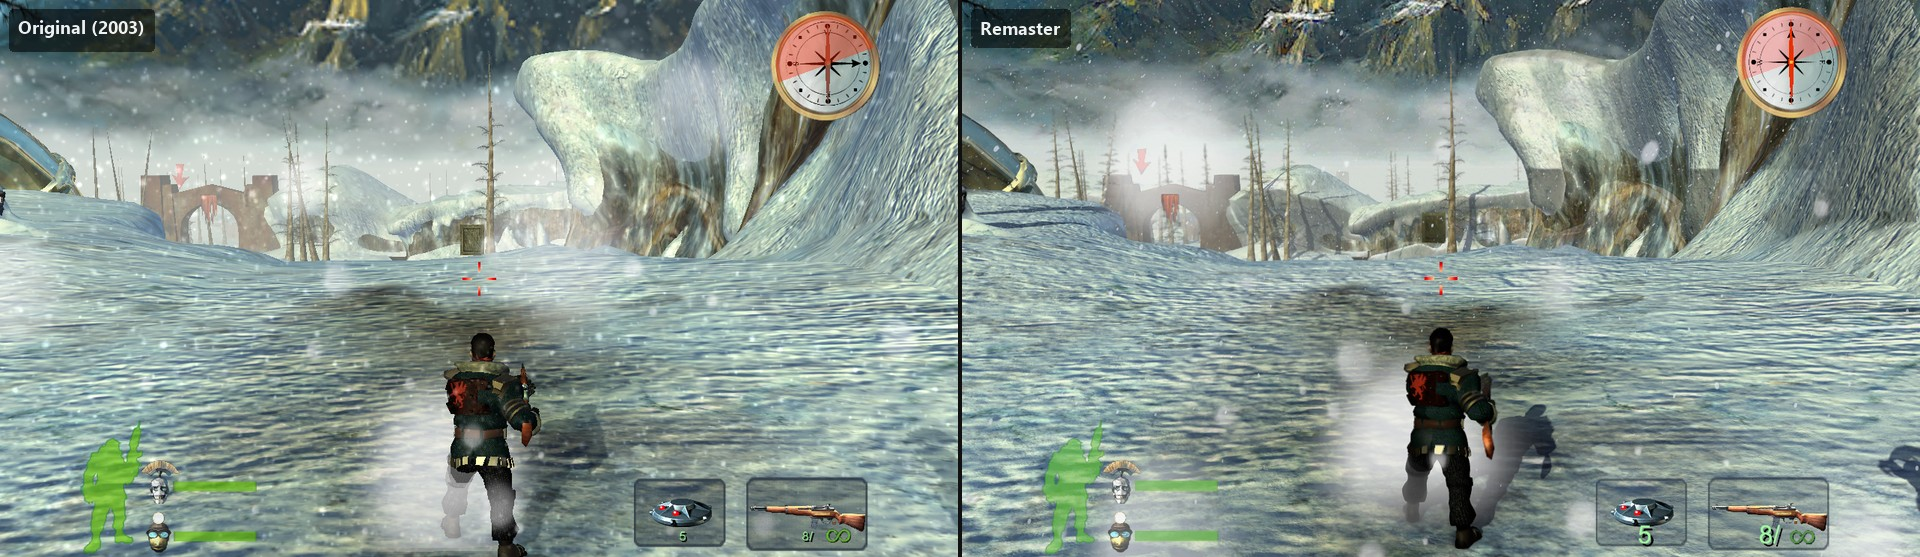
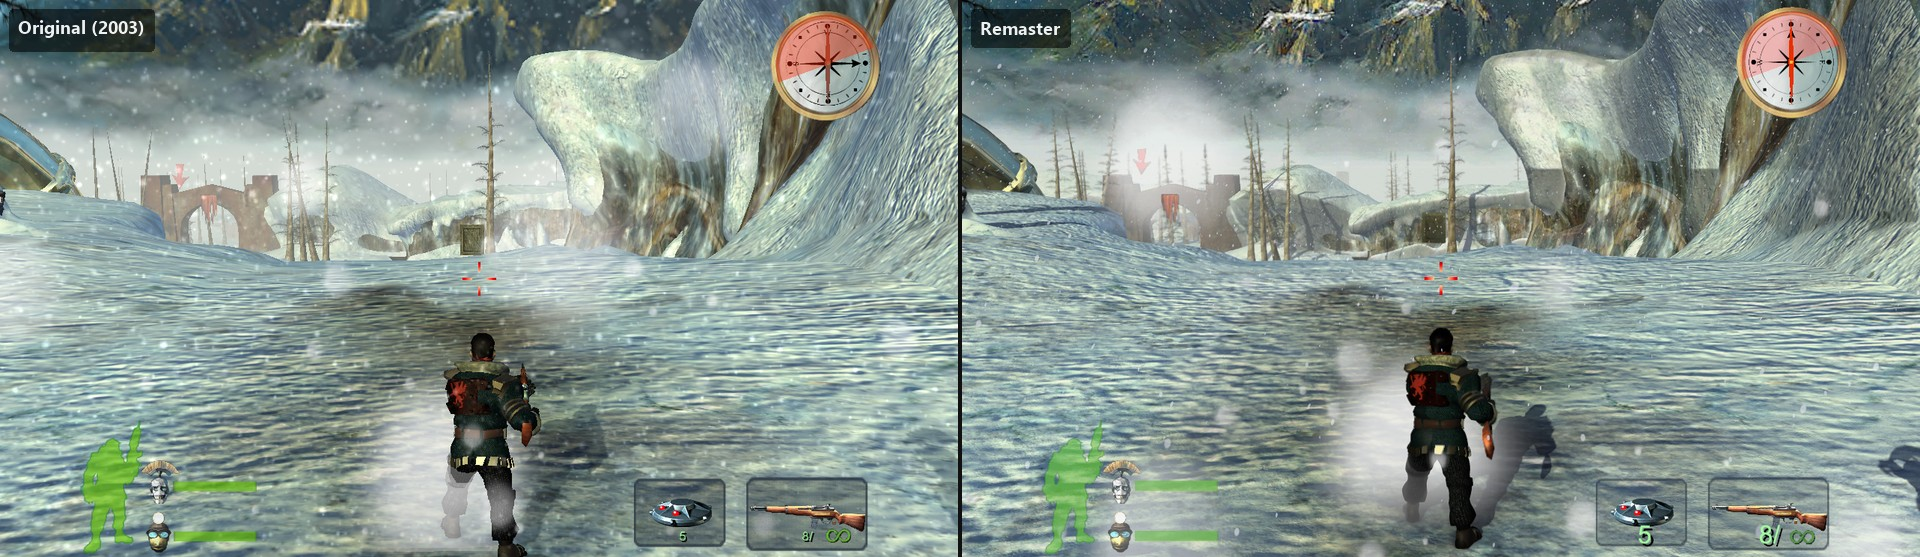
Gallery: re-rendered after the sRGB fix (the roofs' dark planks show); Known differences listed
Every remaster capture re-rendered (the originals unchanged). docs/comparisons.md: the new --stats numbers (lev_4_m1 saturation 0.767 against the original's 0.763, lev_4_m3 0.408 / 0.409, lev_3_m3 0.563 / 0.547) and a Known differences section: the camera's snow puffs (the original's emitter, brighter over dark walls: linear vs gamma blending), lev_5_m3's rain domes, the sky holes on lev_5_m3 / lev_bonus_m1, lev_3_m3's town, the lev_1_m1 pub windows, character lighting.

Changed region(s): [[0.8438, 0.2442, 0.875, 0.3052]]

diff --git a/docs/comparisons.md b/docs/comparisons.md
@@ -33,16 +33,18 @@ map marker, as the original renders it once at load, and reflects it per pixel: 
 ice (`graphics/env_map.rs`). The GPU snowfall (`graphics/snow.rs`: 200,000 flakes falling through gusting wind and
 settling on surfaces) replaces the original's snow cylinders at about their visible amount. Also: Roman's sun shadow
 (4 cascades of 8192 px, PCSS soft edges), height fog in place of the linear fog, ambient occlusion, the retextured
-landscape. Contrast / saturation: original 47.7 / 0.157, remaster 47.6 / 0.157 (before this pass: 31.1 / 0.088).
+landscape. Contrast / saturation: original 47.7 / 0.157, remaster 47.3 / 0.154 (before this pass: 31.1 / 0.088).
 
 ### Village
 
 ![lev_1_m1 village](images/compare/l1_village.jpg)
 
 The village houses. Cascaded shadows (Roman's on the snow), ambient occlusion under the eaves and where the walls
-meet the ground, retextured walls, roofs and barrels, TAA with sharpening. The roof undersides are black in both: the
-dark wood (ambient 0.1) faces away from both of the level's lights. The soft white blobs are the original's own
-camera-locked snow particles. Contrast / saturation: 55.2 / 0.219 against 54.1 / 0.207 (before: 38.6 / 0.116).
+meet the ground, retextured walls, roofs and barrels, TAA with sharpening. The roof undersides are dark brown planks in both
+(the dark wood, ambient 0.1, faces away from both of the level's lights; the remaster crushed it to black until it
+converted the game's values with the sRGB curve instead of a 2.2 power). The soft white blobs are the original's own
+camera-locked snow particles (see Known differences). Contrast / saturation: 55.2 / 0.219 against 52.8 / 0.199
+(before: 38.6 / 0.116).
 
 ### Village street
 
@@ -90,7 +92,7 @@ camera at the same play frame (not the dumped camera), 1280x960 against 1920x108
 
 lev_2_m3's start, 5 s after the briefing: a warm, hazy palette, nothing like the snow levels. Retextured ground and
 rock, the hill's soft shadow, ambient occlusion along the fence and the slope's folds. Contrast / saturation 53.6 /
-0.278 against 59.4 / 0.308.
+0.278 against 57.7 / 0.270.
 
 ### The town through the gate, lev_3_m3
 
@@ -98,15 +100,15 @@ rock, the hill's soft shadow, ambient occlusion along the fence and the slope's 
 
 lev_3_m3's start: the town seen through the gate, in the level's orange haze (fog 176, 104, 58). Until this pass the
 remaster drew this level, and eight others, without any fog: their global settings give no fog_near of their own, and
-the original then takes its property set's value (gamematerial.rs `level_fog`). Roman is lit darker in the remaster
-here and in the other non-snow levels (character lighting: not looked at in this pass).
+the original then takes its property set's value (gamematerial.rs `level_fog`). Saturation 0.547 against 0.563.
 
 ### Grass hills in late light, lev_4_m1
 
 ![lev_4_m1 hills](images/compare/l4m1_hills.jpg)
 
 lev_4_m1's start: mossy hills under trees, the strongest colour of the set. Soft canopy shadows across the grass
-(the original has none from the trees), ambient occlusion in the rock's folds, retextured grass and stone.
+(the original has none from the trees), ambient occlusion in the rock's folds, retextured grass and stone. Saturation
+0.763 against 0.767.
 
 ### Water mill, lev_4_m3
 
@@ -182,6 +184,15 @@ size, and the remaster's settings. The original runs one instance at a time in i
 400 KB. The original very occasionally crashes on exit before its last frame is dumped (lev_3_m3, once): run the shot
 again.
 
-Not in the set: an explosion pair (a blast needs a scripted moment that frames the fireball in both games), and
-lev_5_m3's night rain, where the remaster's rain and wind-spray domes still grey the whole view out
-(docs/player-feedback.md G5).
+Not in the set: an explosion pair (a blast needs a scripted moment that frames the fireball in both games).
+
+## Known differences
+
+Open visual differences against the original, found with these tools (status in docs/player-feedback.md):
+
+- **Snow puffs near the camera** (lev_1_m1): the big soft white blobs are the original's own camera-locked snow emitter (fx_camera_l1_m1_locked, the same count, size and speed), but they read brighter over dark walls than in the original, which blends in gamma space where the remaster blends in linear light (matched over the snow's brightness).
+- **lev_5_m3's night rain**: the camera's rain and wind-spray domes (fxo_rain_1..3, fxo_wind_spray) grey the whole view out; their textures are dark, so the cause is in the fx materials, not found yet (G5).
+- **Sky holes** on lev_5_m3 and lev_bonus_m1: bright white patches where the sky should show (the lev_5_m3 ones are lit snow in front of the rain domes; lev_bonus_m1's not examined).
+- **lev_3_m3's town through the gate**: was missing (black) for want of the level's fog; fixed, the town still reads darker than the original's.
+- **lev_1_m1 pub windows**: not lit as in the original (not examined).
+- **Characters** are lit a little darker than the original's in the non-snow levels (Roman in lev_2_m3, lev_4_m1).
